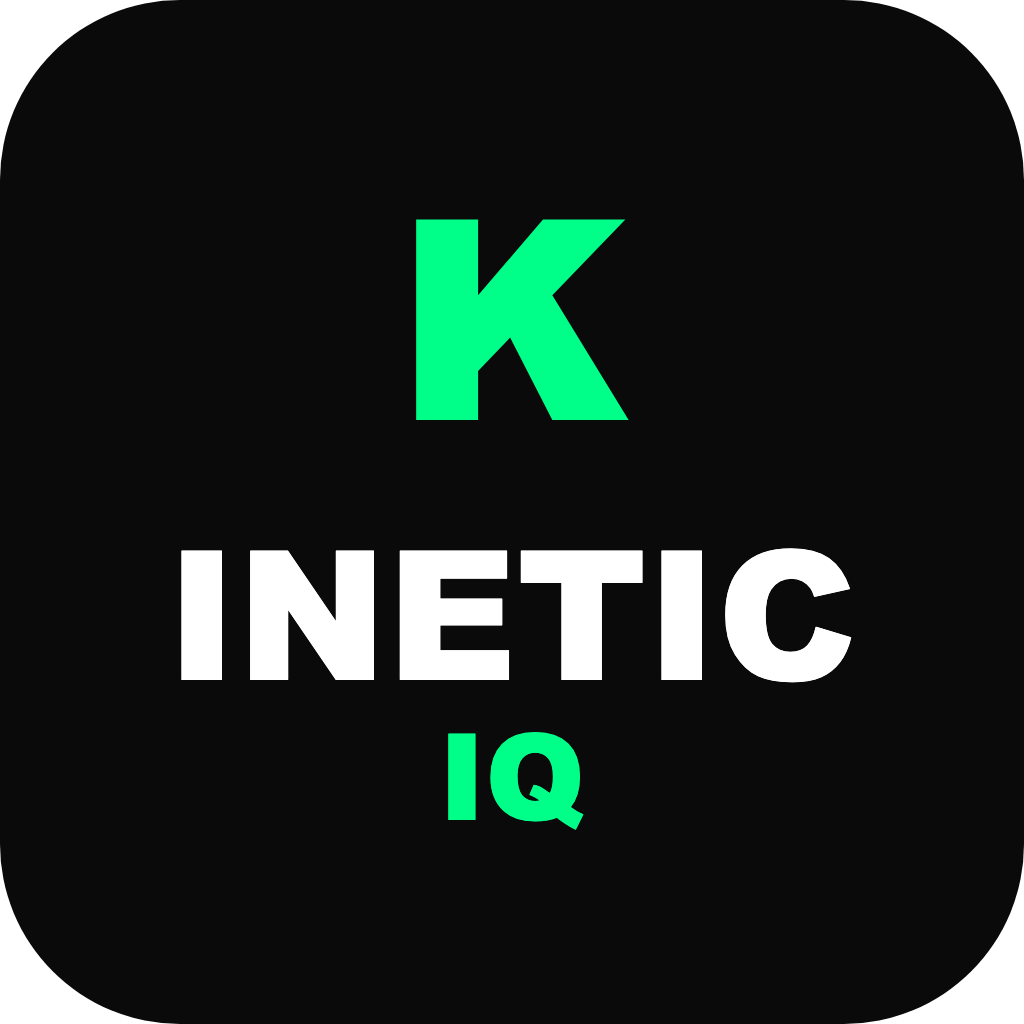
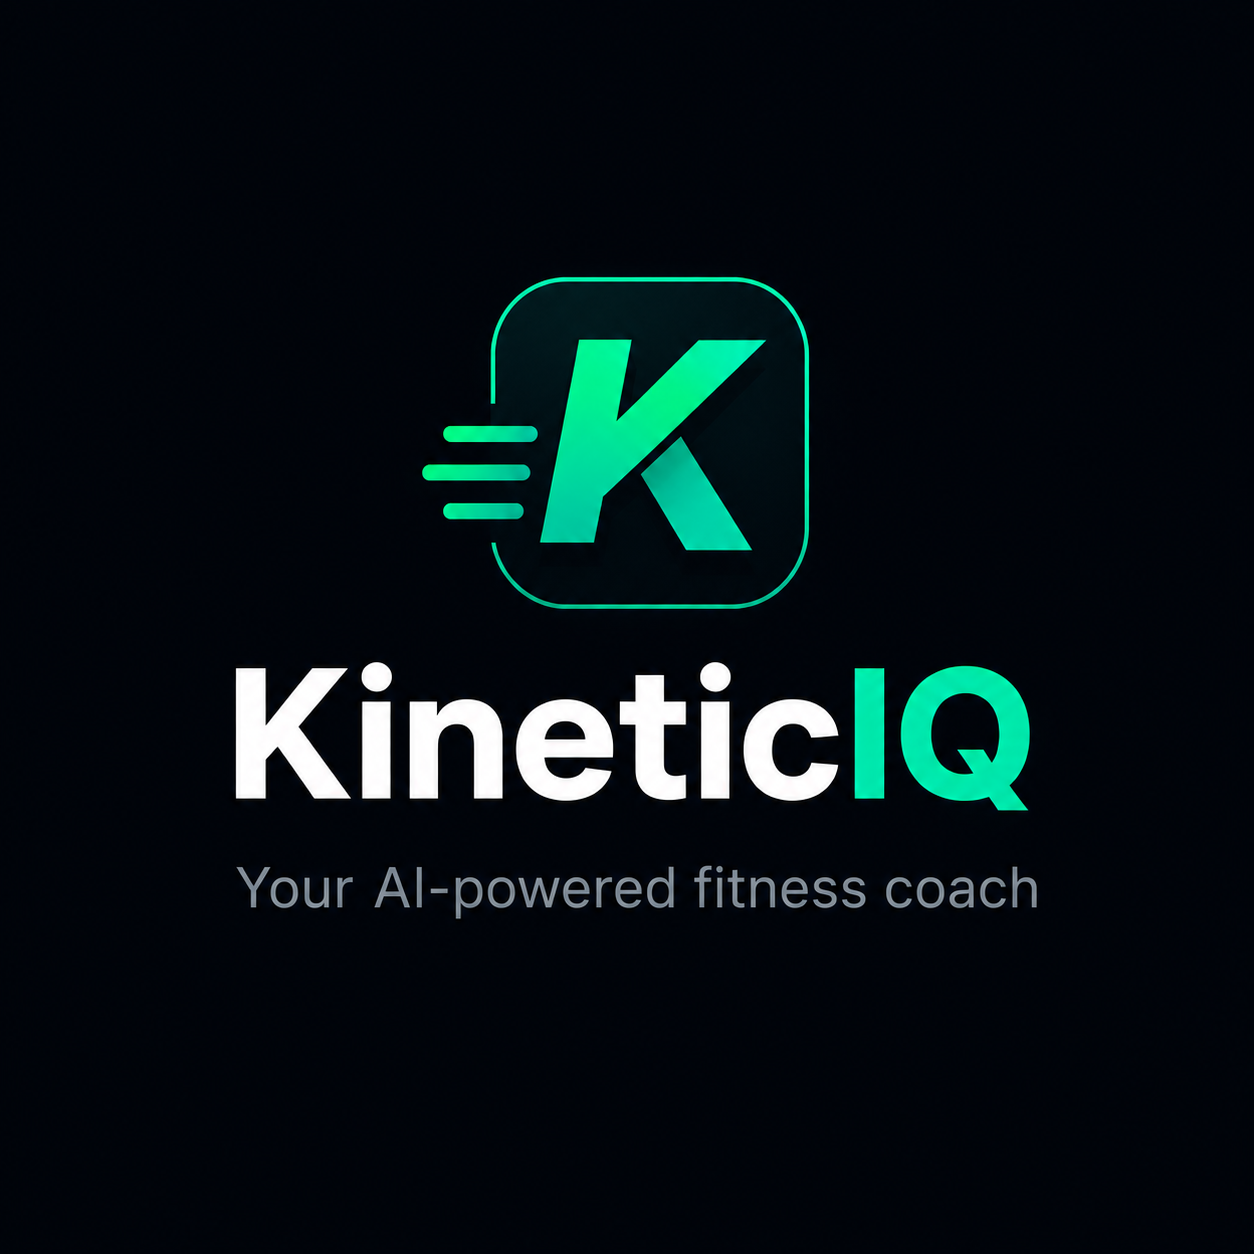
Multiple workout times, fixed goals display, reordered onboarding questions

diff --git a/screens/LoginScreen.js b/screens/LoginScreen.js
@@ -8,7 +8,8 @@ import {
   Alert,
   ActivityIndicator,
   KeyboardAvoidingView,
-  Platform
+  Platform,
+  Image
 } from 'react-native';
 import { signInWithEmailAndPassword } from 'firebase/auth';
 import { auth } from '../firebaseConfig';
@@ -120,6 +121,7 @@ const styles = StyleSheet.create({
   logoContainer: { alignItems: 'center', marginBottom: 40 },
   logoBox: { width: 72, height: 72, borderRadius: 20, backgroundColor: 'rgba(0,229,160,0.12)', borderWidth: 1, borderColor: 'rgba(0,229,160,0.25)', alignItems: 'center', justifyContent: 'center', marginBottom: 16 },
   logoK: { fontSize: 36, fontWeight: '800', color: '#00E5A0' },
+  logoImage: { width: 260, height: 180, resizeMode: 'contain', marginBottom: 8 },
   logoText: { fontSize: 32, fontWeight: '800', color: '#F0F4F8', letterSpacing: -0.5, marginBottom: 8 },
   logoAccent: { color: '#00E5A0' },
   logoTagline: { fontSize: 14, color: '#8A9BB0' },

diff --git a/firebaseConfig.js b/firebaseConfig.js
@@ -15,5 +15,5 @@ const firebaseConfig = {
 const app = initializeApp(firebaseConfig);
 export const auth = getAuth(app);
 export const db = getFirestore(app);
-export const functions = getFunctions(app);
+export const functions = getFunctions(app, 'us-central1');
 export { httpsCallable };

diff --git a/screens/DashboardScreen.js b/screens/DashboardScreen.js
@@ -307,6 +307,7 @@ export default function DashboardScreen({ navigation, route }) {
       const user = auth.currentUser;
       await setDoc(doc(db, 'users', user.uid), { savedPlan: parsed }, { merge: true });
     } catch (error) {
+      console.log('Generate plan error:', error.code, error.message);
       Alert.alert('Error generating plan', error.message);
     } finally {
       setGeneratingPlan(false);